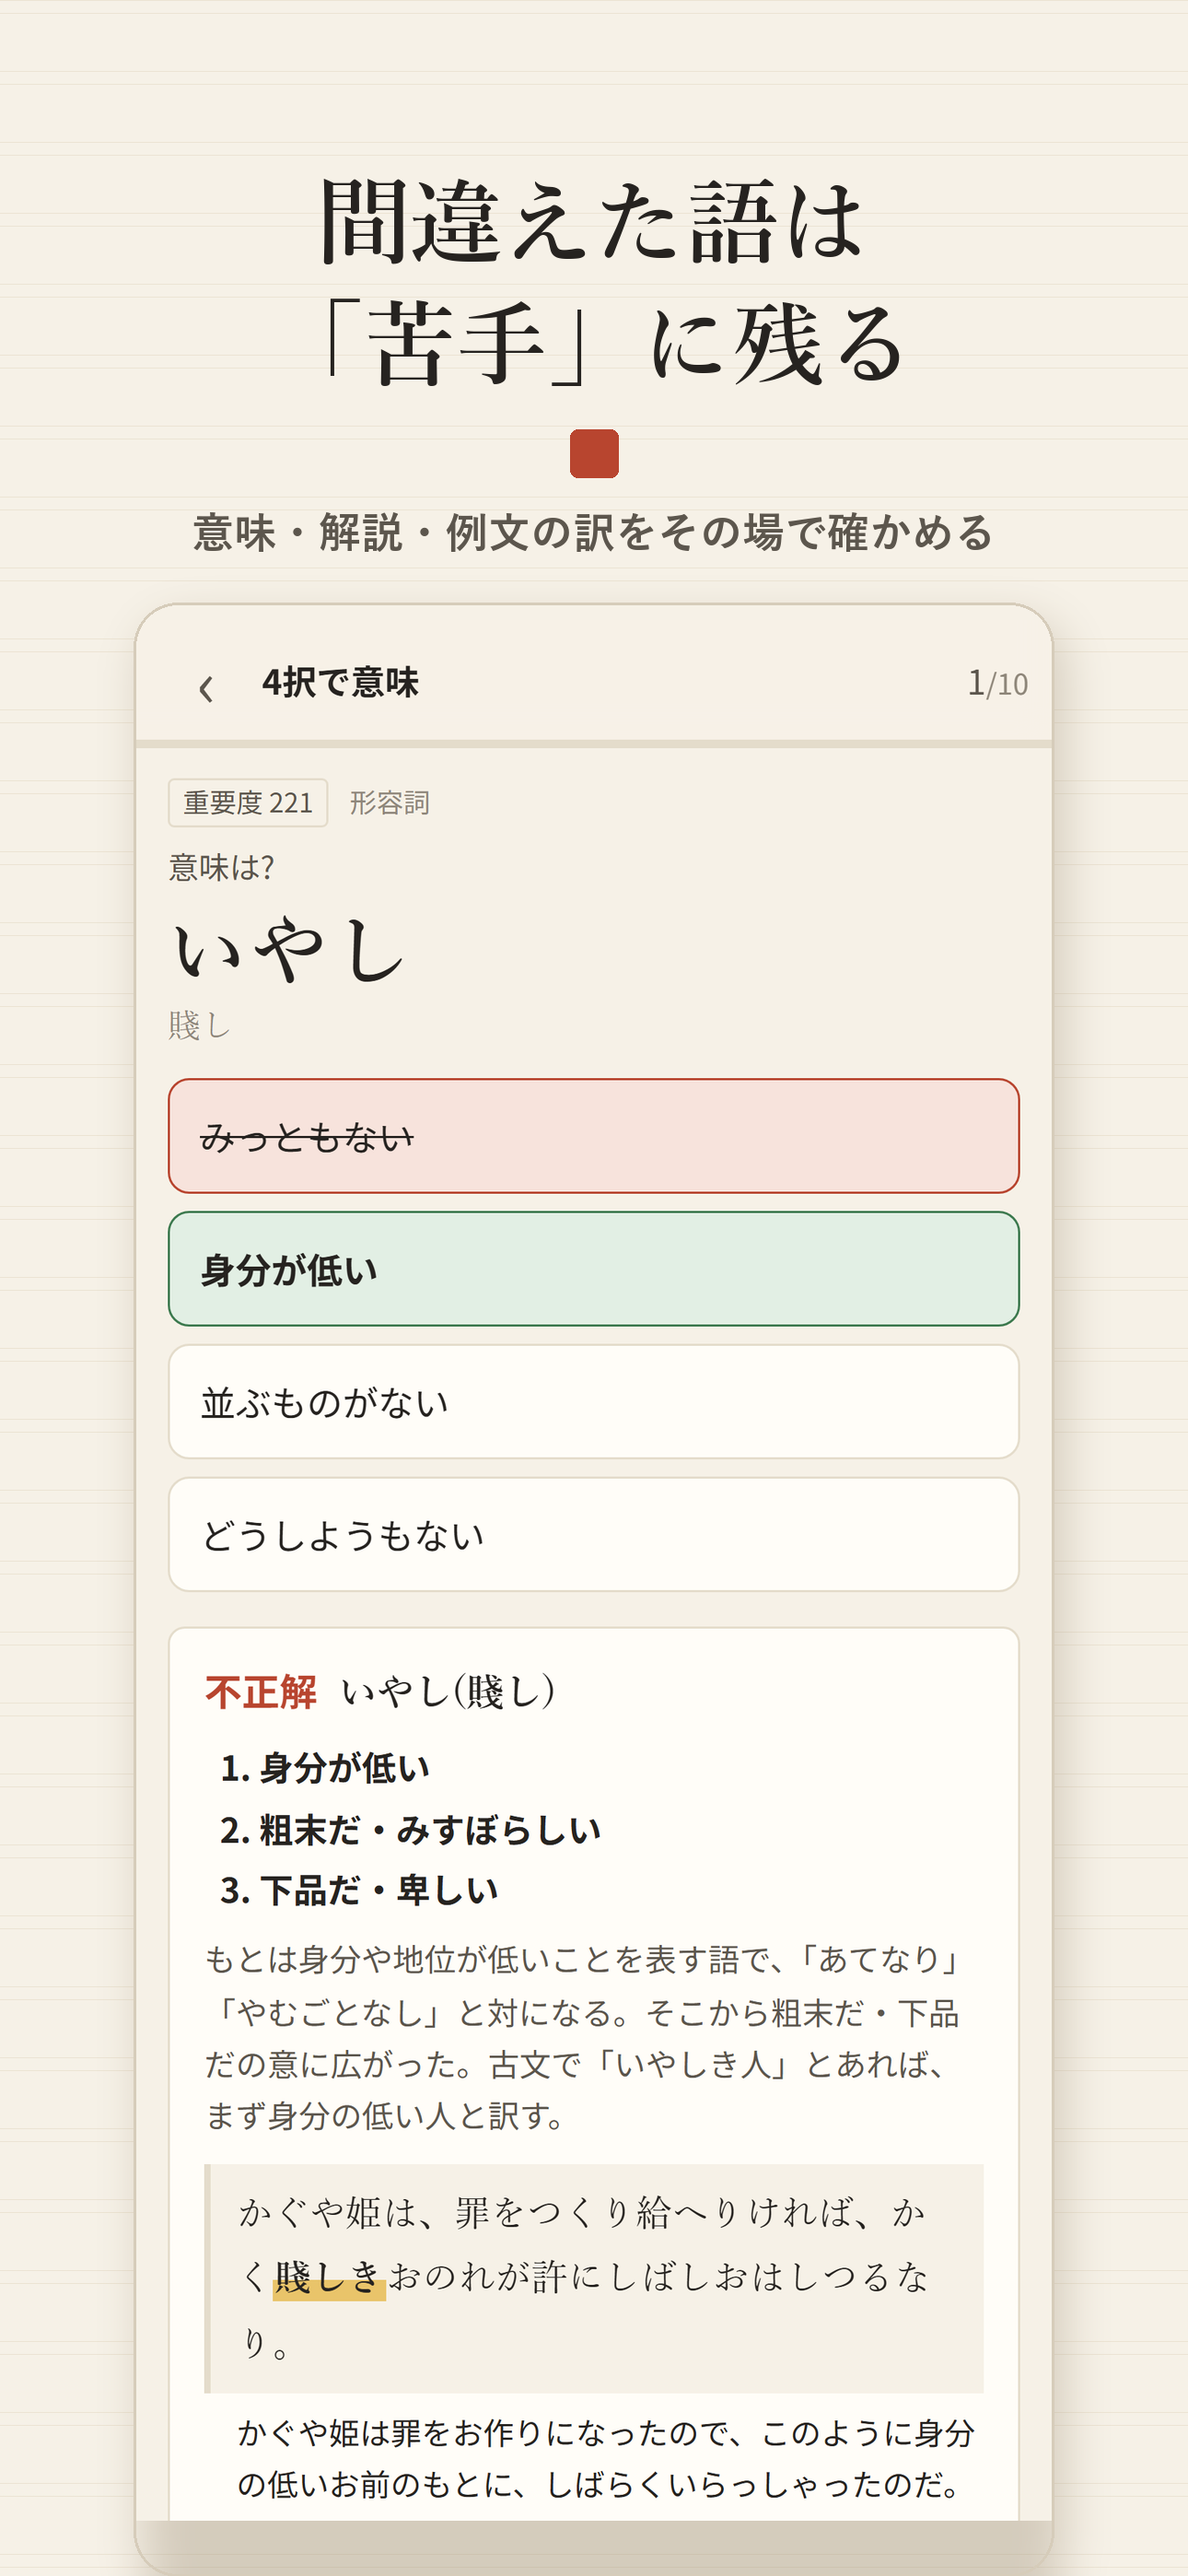
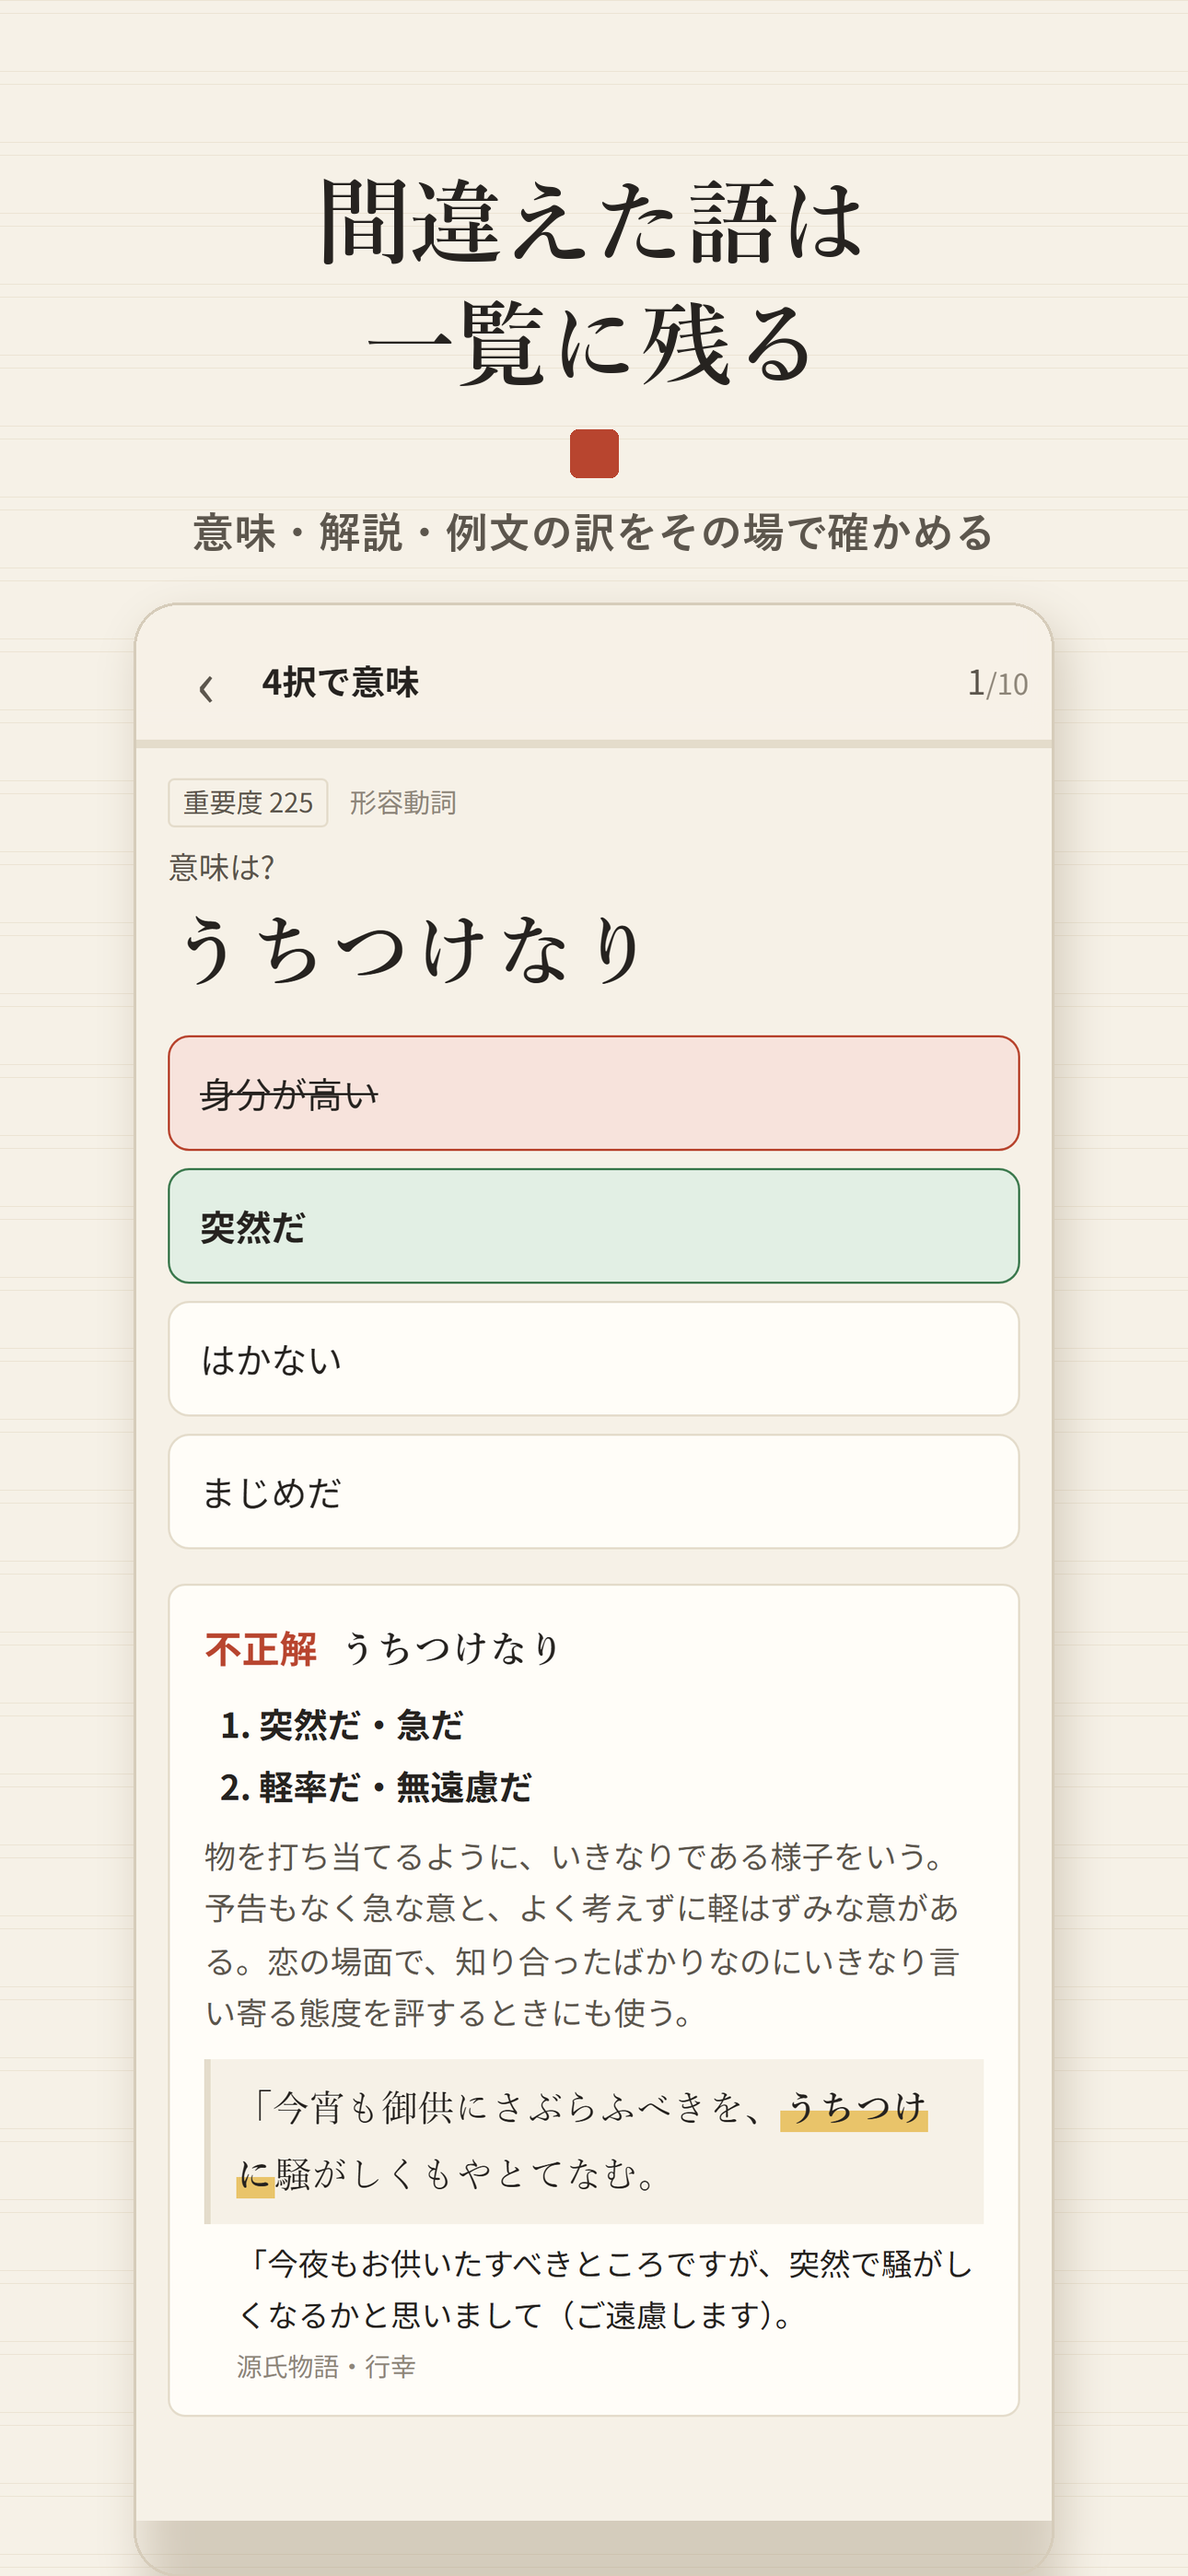
画面と掲載から「苦手」をやめて「まちがえた語」に、説明文を例文と出典から始める形に(App Store 4.3(a) 対策)

diff --git a/src/ui/Home.tsx b/src/ui/Home.tsx
@@ -40,7 +40,7 @@ export function Home(p: {
         ) : first ? (
           <>
             <p className="hero-lead">1日10語、めくるだけ。</p>
-            <p className="hero-sub">間違えた語は「苦手」に残り、2回続けて正解すると消えます。覚えた語は1日後・3日後・1週間後…と間をあけてまた出ます。</p>
+            <p className="hero-sub">間違えた語は一覧に残り、2回続けて正解すると消えます。覚えた語は1日後・3日後・1週間後…と間をあけてまた出ます。</p>
           </>
         ) : (
           <>
@@ -58,7 +58,7 @@ export function Home(p: {
         <span className="chip">今日 <b>{today}</b>問</span>
         <span className="chip">連続 <b>{streak}</b>日</span>
         <span className="chip">覚えた <b>{pr.learned}</b>/{pr.total}</span>
-        <span className="chip ng">苦手 <b>{nigateAll}</b></span>
+        <span className="chip ng">まちがい <b>{nigateAll}</b></span>
       </div>
 
       <div className="twin">
@@ -66,7 +66,7 @@ export function Home(p: {
           <b>今日の復習</b><span>{due ? `${due}語が待っています` : '今日の分は終わりました'}</span>
         </button>
         <button className="tile nigate" onClick={p.onNigate} disabled={nigateAll === 0}>
-          <b>苦手だけ</b><span>{nigateAll ? `${nigateAll}語。2回続けて正解で消えます` : 'まだありません'}</span>
+          <b>まちがえた語だけ</b><span>{nigateAll ? `${nigateAll}語。2回続けて正解で消えます` : 'まだありません'}</span>
         </button>
       </div>
 

diff --git a/src/ui/Quiz.tsx b/src/ui/Quiz.tsx
@@ -124,8 +124,8 @@ export function Quiz(p: {
         <section className="result-hero">
           <p className="result-score"><b>{ok}</b><span>/ {answers.length}</span></p>
           <ul className="result-moves">
-            <li>苦手から外れた<b>{cleared}語</b></li>
-            <li>新しく苦手に入った<b>{newNigate}語</b></li>
+            <li>まちがいが消えた<b>{cleared}語</b></li>
+            <li>新しくまちがえた<b>{newNigate}語</b></li>
           </ul>
         </section>
         <ul className="result-list">
@@ -165,7 +165,7 @@ export function Quiz(p: {
         <p className="q-meta">
           <span className="q-tag">{q.word.set === 'keigo' ? '敬語' : q.word.set === 'jodoshi' ? '助動詞' : `重要度 ${q.word.rank}`}</span>
           <span>{q.word.pos}</span>
-          {isNigate(p.data.records[q.word.id]) && !answeredNow && <span className="q-ng">苦手</span>}
+          {isNigate(p.data.records[q.word.id]) && !answeredNow && <span className="q-ng">まちがい</span>}
         </p>
         {s.mode === 'reverse' && !s.kind ? (
           <>

diff --git a/src/App.tsx b/src/App.tsx
@@ -101,7 +101,7 @@ export default function App() {
       start('今日の分', [...due.slice(0, 40), ...fresh], 'mean');
     },
     review: () => data && start('今日の復習', dueWords(open, data, Date.now()).slice(0, 40), 'mean'),
-    nigate: () => data && start('苦手だけ', nigateOrder([...open, ...(all ?? []).filter((w) => w.set !== 'main' && !isLocked(w, premium))], data).slice(0, 20), 'mean'),
+    nigate: () => data && start('まちがえた語だけ', nigateOrder([...open, ...(all ?? []).filter((w) => w.set !== 'main' && !isLocked(w, premium))], data).slice(0, 20), 'mean'),
     mode: (mode: Mode) => {
       if (!data) return;
       const titles: Record<Mode, string> = { mean: '4択で意味', reverse: '意味から古語', example: '例文で当てる', card: '一問一答カード' };

diff --git a/src/ui/WordList.tsx b/src/ui/WordList.tsx
@@ -25,7 +25,7 @@ export function WordList(p: { main: Word[]; data: AppData; premium: boolean; onB
       <TopBar title="単語の一覧" onClose={p.onBack} />
       <input className="search" type="search" placeholder="古語・漢字・意味でさがす" value={q} onChange={(e) => setQ(e.target.value)} />
       <div className="seg">
-        {([['all', 'すべて'], ['nigate', '苦手'], ['learned', '覚えた'], ['new', 'まだ']] as [Filter, string][]).map(([k, l]) => (
+        {([['all', 'すべて'], ['nigate', 'まちがい'], ['learned', '覚えた'], ['new', 'まだ']] as [Filter, string][]).map(([k, l]) => (
           <button key={k} className={f === k ? 'on' : ''} onClick={() => setF(k)}>{l}</button>
         ))}
       </div>

diff --git a/src/ui/WordDetail.tsx b/src/ui/WordDetail.tsx
@@ -5,7 +5,7 @@ import { TopBar, WordBody } from './Quiz';
 export function WordDetail(p: { word: Word; data: AppData; onBack: () => void }) {
   const w = p.word;
   const r = p.data.records[w.id];
-  const state = !r ? 'まだ解いていません' : isNigate(r) ? `苦手(あと${2 - r.streak}回続けて正解で外れます)` : isLearned(r) ? '覚えた' : '練習中';
+  const state = !r ? 'まだ解いていません' : isNigate(r) ? `まちがえた語(あと${2 - r.streak}回続けて正解で外れます)` : isLearned(r) ? '覚えた' : '練習中';
   return (
     <div className="page wdetail">
       <TopBar title={w.set === 'keigo' ? '敬語' : w.set === 'jodoshi' ? '助動詞' : `重要度 ${w.rank}`} onClose={p.onBack} />

diff --git a/src/ui/SettingsPage.tsx b/src/ui/SettingsPage.tsx
@@ -70,7 +70,7 @@ export function SettingsPage(p: {
           <button className="btn danger wide" onClick={() => setConfirm(true)}>学習の記録をすべて消す</button>
         ) : (
           <div className="confirm">
-            <p>苦手・復習の予定・連続日数がすべて消えます。元に戻せません。</p>
+            <p>まちがえた語・復習の予定・連続日数がすべて消えます。元に戻せません。</p>
             <div className="row-inline">
               <button className="btn" onClick={() => setConfirm(false)}>やめる</button>
               <button className="btn danger" onClick={() => { p.onReset(); setConfirm(false); setMsg('記録を消しました'); }}>消す</button>

diff --git a/src/ui/Paywall.tsx b/src/ui/Paywall.tsx
@@ -45,7 +45,7 @@ export function Paywall(p: { billing: BillingState; main: Word[]; all: Word[]; o
           <tr><td>例文で当てる</td><td>{EXAMPLE_TRIAL}問おためし</td><td>{exN}語の例文</td></tr>
           <tr><td>敬語セット</td><td>一覧のみ</td><td>{keigo}語</td></tr>
           <tr><td>助動詞セット</td><td>一覧のみ</td><td>{jodo}語</td></tr>
-          <tr><td>苦手・今日の復習・逆算</td><td>○</td><td>○</td></tr>
+          <tr><td>まちがえた語・今日の復習・逆算</td><td>○</td><td>○</td></tr>
           <tr><td>広告</td><td>なし</td><td>なし</td></tr>
         </tbody>
       </table>

diff --git a/src/domain/study.ts b/src/domain/study.ts
@@ -1,6 +1,6 @@
 import type { AppData, Mode, Record1, Settings, Word } from './types';
 
-/** 2回続けて正解したら苦手から外れる(ニガテ帳と同じ決まり) */
+/** 2回続けて正解したら、まちがえた語から外れる */
 export const CLEAR_STREAK = 2;
 /** 無料で使える見出し語(重要度順の上位) */
 export const FREE_MAIN = 150;

diff --git a/tools/rewrite_listing.py b/tools/rewrite_listing.py
@@ -1,18 +1,12 @@
-# ストア掲載文(App Store / Google Play 共通の元)
+"""store/listing.md の説明文と Play の短い説明を書き直す(App Store 4.3(a) 対策)。
+例文と出典を先頭に出し、ほかのアプリと同じ「苦手」の言葉と見出しの型(■)をやめる。何度流しても同じ結果。
+python tools/rewrite_listing.py"""
+import os
+import re
 
-## App Store
+ROOT = os.path.dirname(os.path.dirname(os.path.abspath(__file__)))
 
-- 名前(30字以内): こぶんめくり 古文単語と例文
-- サブタイトル(30字以内): 大学受験の古文単語600・広告なし
-- キーワード(100字以内、カンマ区切り):
-  古文単語,古文,古典,単語帳,共通テスト,大学受験,一問一答,敬語,助動詞,古語,受験,暗記,源氏物語,枕草子,徒然草,国語
-- カテゴリ: 教育(サブ: 参考)
-- 年齢: 4+
-- 価格: 無料(App内課金 買い切り ¥610「完全版」)
-
-## 説明文
-
-六月の頃あやしき家に、夕顔の白く見えて、蚊遣火ふすぶるもあはれなり。(徒然草・第十九段)
+DESC = """六月の頃あやしき家に、夕顔の白く見えて、蚊遣火ふすぶるもあはれなり。(徒然草・第十九段)
 
 この一文の「あはれなり」は、どんな意味でしょう。こぶんめくりは、古文単語を古典の本文の中で覚える単語帳です。大学受験・共通テストに出る601語のすべてに、著作権の切れた古典から引いた例文が1文ずつ付いています。
 
@@ -27,11 +21,20 @@
 無料で使えるのは、重要度の上位150語と、まちがえた語の練習・今日の復習・試験日からの逆算、例文問題5問のおためしです。完全版(買い切り・1回だけ)で、601語すべてと例文モード、敬語セット、助動詞セットが開きます。広告は無料でも完全版でも出しません。
 
 アカウント登録はいりません。学習の記録はこの端末の中だけに保存し、外部へ送りません。
+"""
 
-## Google Play
+SHORT = "古文単語601語を、源氏物語や徒然草の本文の一文で覚える。全語に例文と出典の巻・段つき。広告なし。"
 
-- 題名(30字以内): こぶんめくり 古文単語600・例文つき
-- 短い説明(80字以内): 古文単語601語を、源氏物語や徒然草の本文の一文で覚える。全語に例文と出典の巻・段つき。広告なし。
-- 詳しい説明: 上の「説明文」と同じ
-- カテゴリ: 教育
-- タグ: 教育、学習、単語
+p = os.path.join(ROOT, "store", "listing.md")
+s = open(p, encoding="utf-8").read()
+head, rest = s.split("## 説明文\n", 1)
+body, tail = rest.split("\n## Google Play", 1)
+s = head + "## 説明文\n\n" + DESC + "\n## Google Play" + tail
+s = re.sub(r"(- 短い説明\(80字以内\): ).*", lambda m: m.group(1) + SHORT, s, count=1)
+open(p, "w", encoding="utf-8", newline="").write(s)
+
+p = os.path.join(ROOT, "store", "play", "listing.txt")
+s = open(p, encoding="utf-8").read()
+s = re.sub(r"(【短い説明\(80字以内\)】\n).*", lambda m: m.group(1) + SHORT, s, count=1)
+open(p, "w", encoding="utf-8", newline="").write(s)
+print("説明", len(DESC), "字 / 短い説明", len(SHORT), "字")

diff --git a/tools/rename_nigate.py b/tools/rename_nigate.py
@@ -1,0 +1,29 @@
+"""画面に出る「苦手」を「まちがえた語」系の言葉に替える(App Store 4.3(a) 対策。ニガテ帳と同じ言葉を使わない)。
+仕組み(2回続けて正解で外れる)は変えない。何度流しても同じ結果になる。
+python tools/rename_nigate.py"""
+import os
+
+ROOT = os.path.dirname(os.path.dirname(os.path.abspath(__file__)))
+EDITS = [
+    ("src/App.tsx", "start('苦手だけ',", "start('まちがえた語だけ',"),
+    ("src/ui/Home.tsx", "間違えた語は「苦手」に残り、2回続けて正解すると消えます。", "間違えた語は一覧に残り、2回続けて正解すると消えます。"),
+    ("src/ui/Home.tsx", ">苦手 <b>", ">まちがい <b>"),
+    ("src/ui/Home.tsx", "<b>苦手だけ</b>", "<b>まちがえた語だけ</b>"),
+    ("src/ui/Paywall.tsx", "<td>苦手・今日の復習・逆算</td>", "<td>まちがえた語・今日の復習・逆算</td>"),
+    ("src/ui/Quiz.tsx", "<li>苦手から外れた<b>", "<li>まちがいが消えた<b>"),
+    ("src/ui/Quiz.tsx", "<li>新しく苦手に入った<b>", "<li>新しくまちがえた<b>"),
+    ("src/ui/Quiz.tsx", '<span className="q-ng">苦手</span>', '<span className="q-ng">まちがい</span>'),
+    ("src/ui/SettingsPage.tsx", "<p>苦手・復習の予定・連続日数がすべて消えます。", "<p>まちがえた語・復習の予定・連続日数がすべて消えます。"),
+    ("src/ui/WordDetail.tsx", "`苦手(あと${2 - r.streak}回続けて正解で外れます)`", "`まちがえた語(あと${2 - r.streak}回続けて正解で外れます)`"),
+    ("src/ui/WordList.tsx", "['nigate', '苦手']", "['nigate', 'まちがい']"),
+    ("src/domain/study.ts", "/** 2回続けて正解したら苦手から外れる(ニガテ帳と同じ決まり) */", "/** 2回続けて正解したら、まちがえた語から外れる */"),
+]
+for rel, old, new in EDITS:
+    p = os.path.join(ROOT, rel)
+    s = open(p, encoding="utf-8").read()
+    if new in s and old not in s:
+        print("済", rel, new[:20])
+        continue
+    assert s.count(old) == 1, (rel, old, s.count(old))
+    open(p, "w", encoding="utf-8", newline="").write(s.replace(old, new))
+    print("替えた", rel, new[:20])

diff --git a/scripts/make_screenshots.py b/scripts/make_screenshots.py
@@ -192,8 +192,8 @@ if __name__ == "__main__":
         capture()
     compose(1, "1_example.png", "古文単語を、\n本文の中で覚える", "源氏物語・徒然草・枕草子の一文で意味を選ぶ")
     compose(2, "2_home.png", "試験日から、\n1日の語数を逆算", "601語を重要度順に。今日の復習も自動で")
-    compose(3, "3_wrong.png", "間違えた語は\n「苦手」に残る", "意味・解説・例文の訳をその場で確かめる")
-    compose(4, "4_result.png", "2回続けて正解で、\n苦手が消える", "覚えた語は1日後・3日後・1週間後にまた出る")
+    compose(3, "3_wrong.png", "間違えた語は\n一覧に残る", "意味・解説・例文の訳をその場で確かめる")
+    compose(4, "4_result.png", "2回続けて正解で、\nまちがいが消える", "覚えた語は1日後・3日後・1週間後にまた出る")
     compose(5, "5_keigo.png", "敬語と助動詞も\nまとめて", "尊敬・謙譲・丁寧は、いつも同じ並びで選べる")
     play_assets()
     print("ok")
